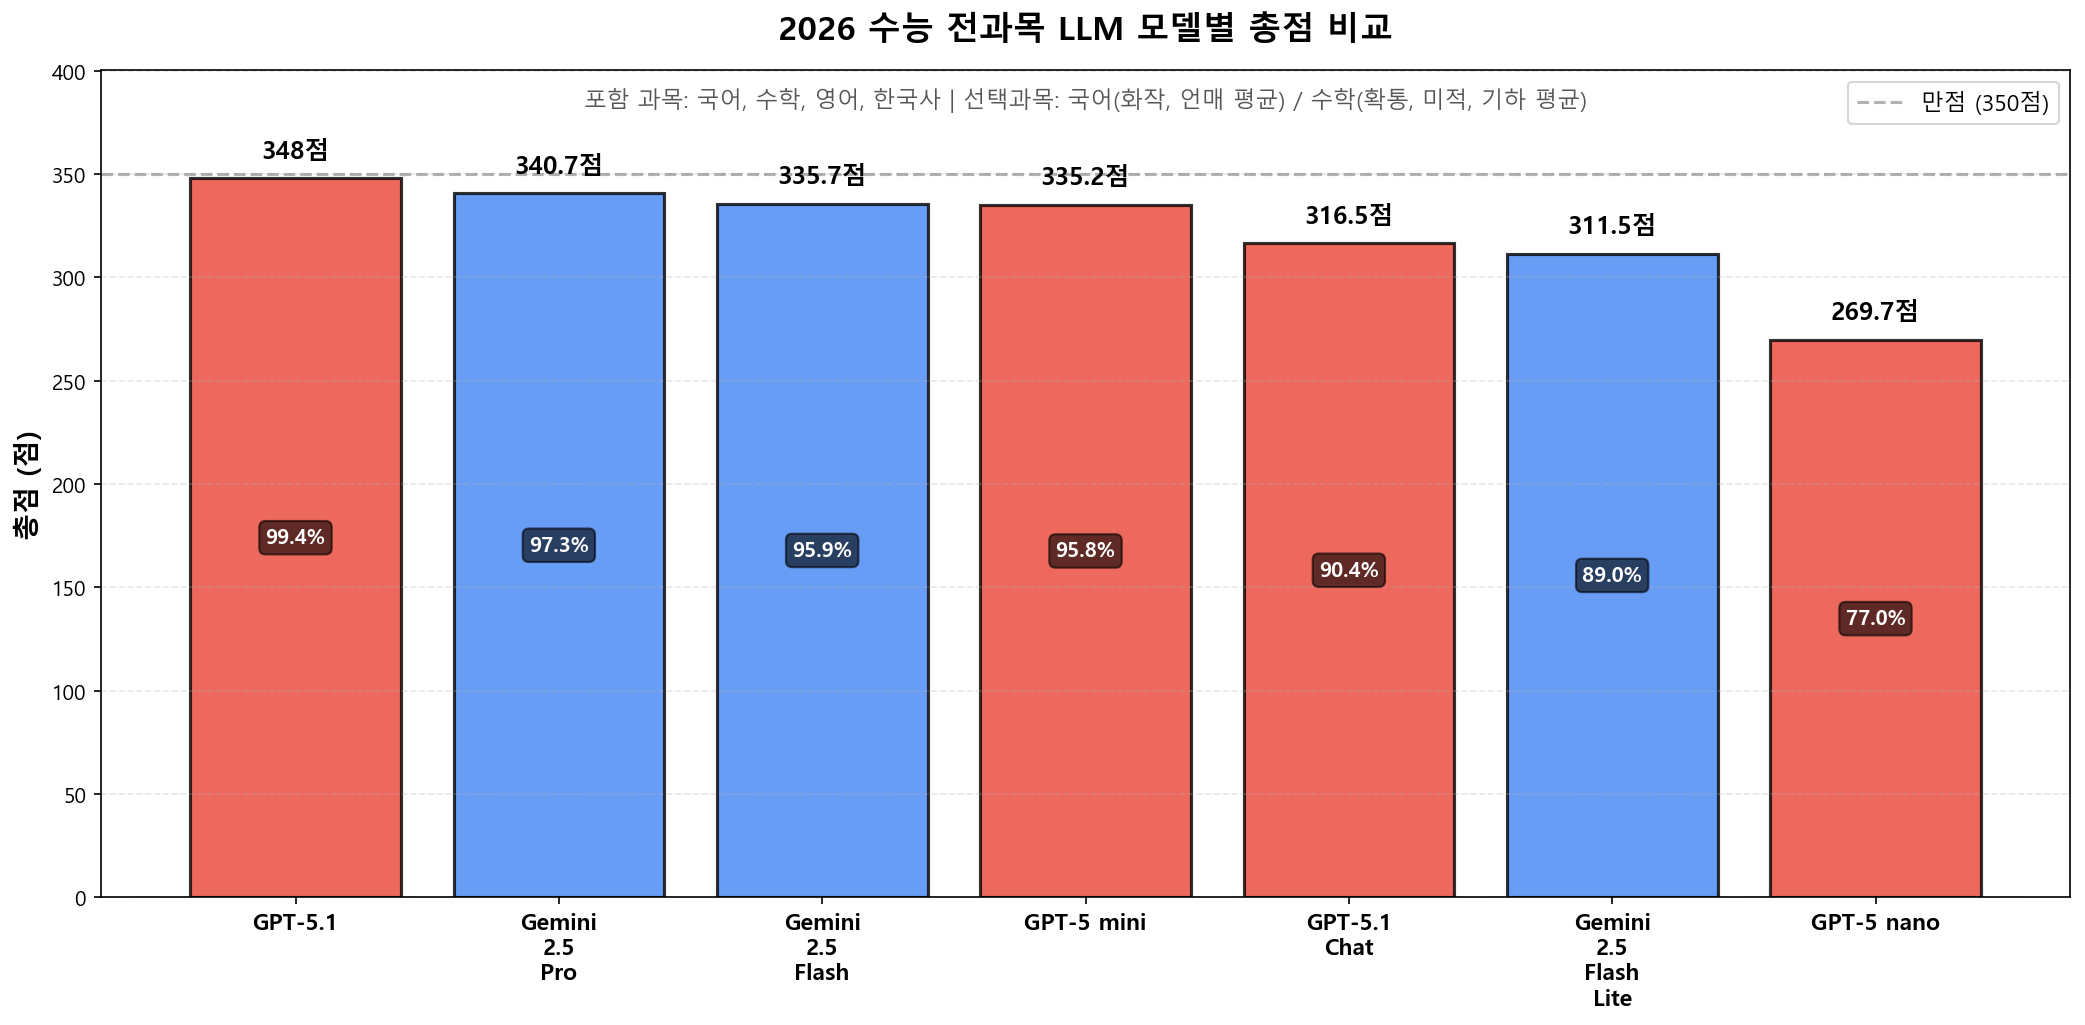
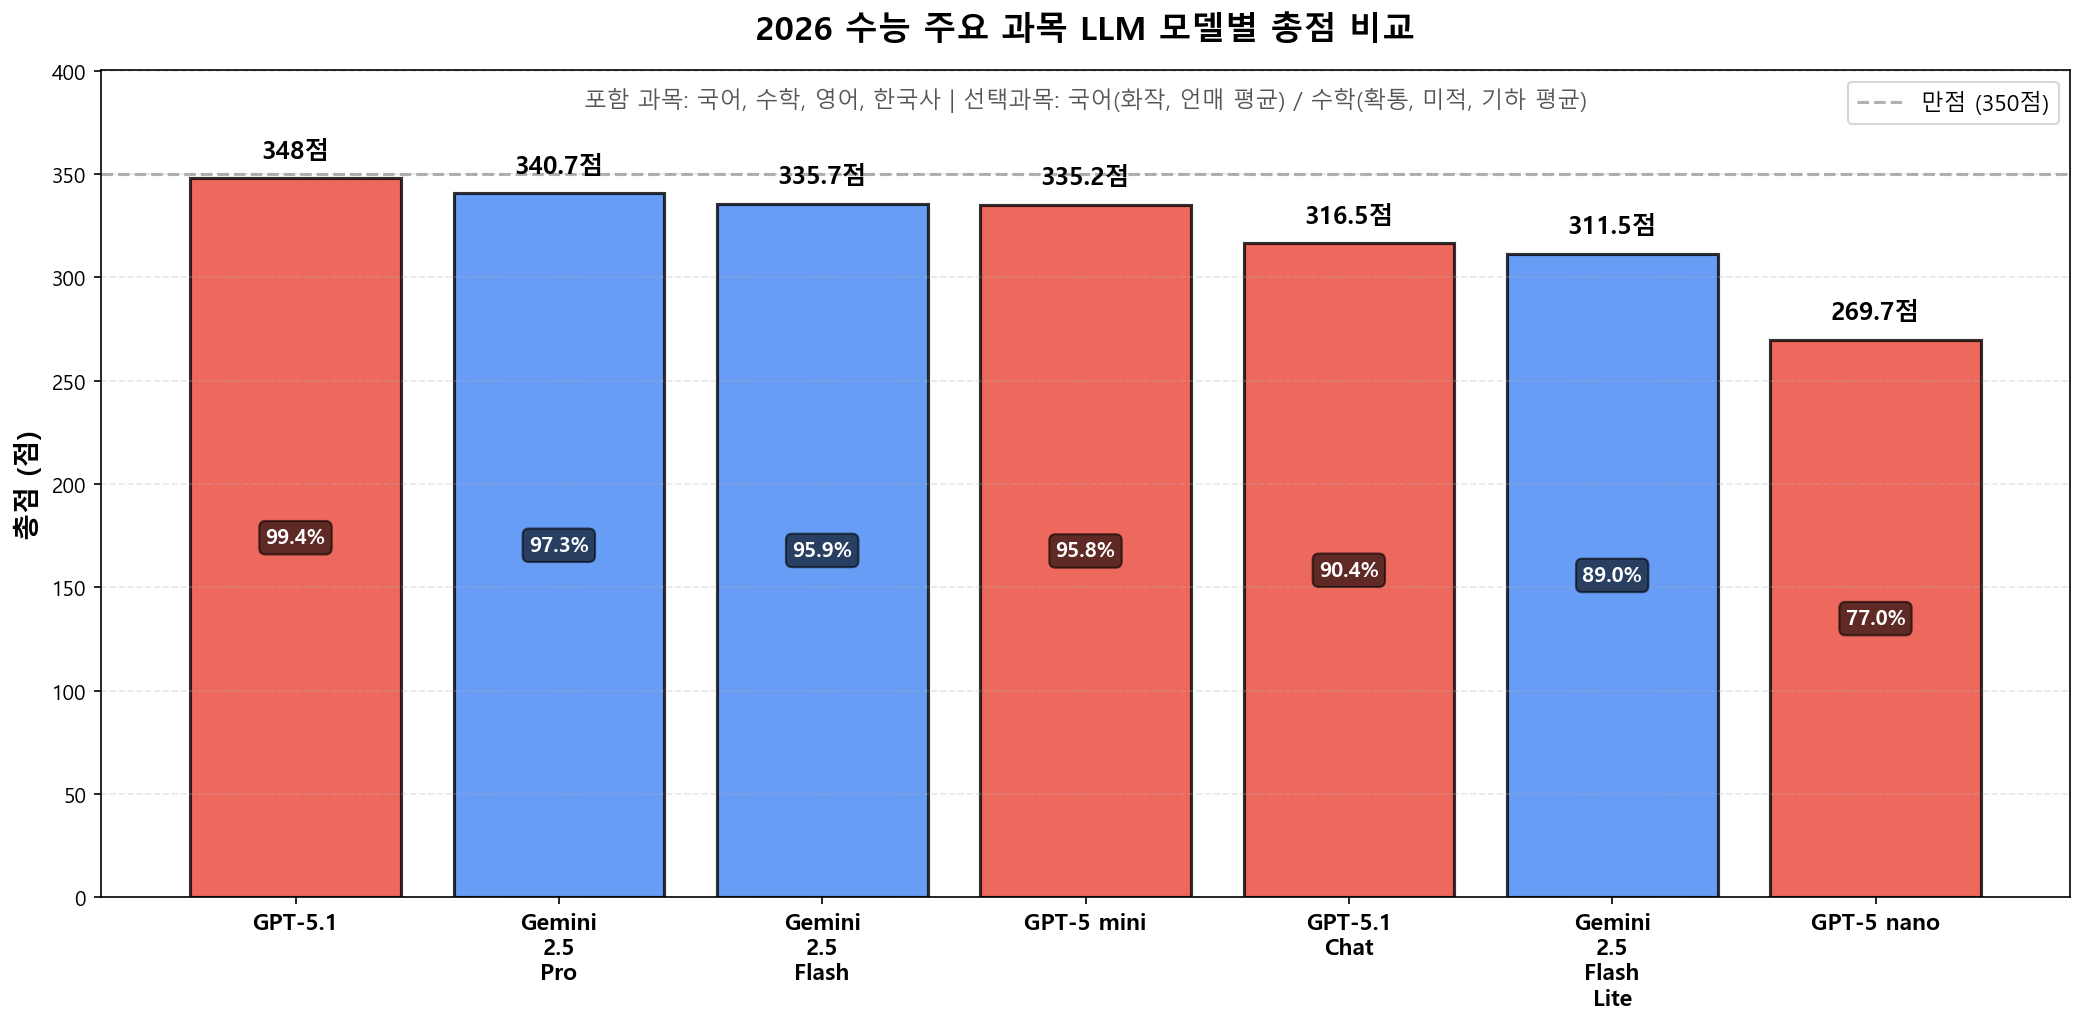
그래프 제목 수정

Changed region(s): [[0.3741, 0.0, 0.6859, 0.0624]]

diff --git a/generate_charts.py b/generate_charts.py
@@ -420,7 +420,7 @@ class ChartGenerator:
 
         # 제목 및 설명
         subject_list = ', '.join(subjects)
-        title = f'2026 수능 전과목 LLM 모델별 총점 비교'
+        title = f'2026 수능 주요 과목 LLM 모델별 총점 비교'
 
         # 선택과목이 있는 과목 정보 생성
         elective_info = []

diff --git a/readme.md b/readme.md
@@ -6,9 +6,9 @@
 ## 개요
 다양한 LLM 모델의 2026학년도 수능 문제 풀이 결과를 기록하고 통계를 정리한 데이터입니다.
 
-## 전과목 종합 성적
+## 주요 과목 종합 성적
 
-![전과목 모델별 총점 비교](images/overall_comparison.png)
+![주요 과목 모델별 총점 비교](images/overall_comparison.png)
 
 > 📊 **평가 과목**: 국어, 수학, 영어, 한국사 (총 350점 만점)
 >
